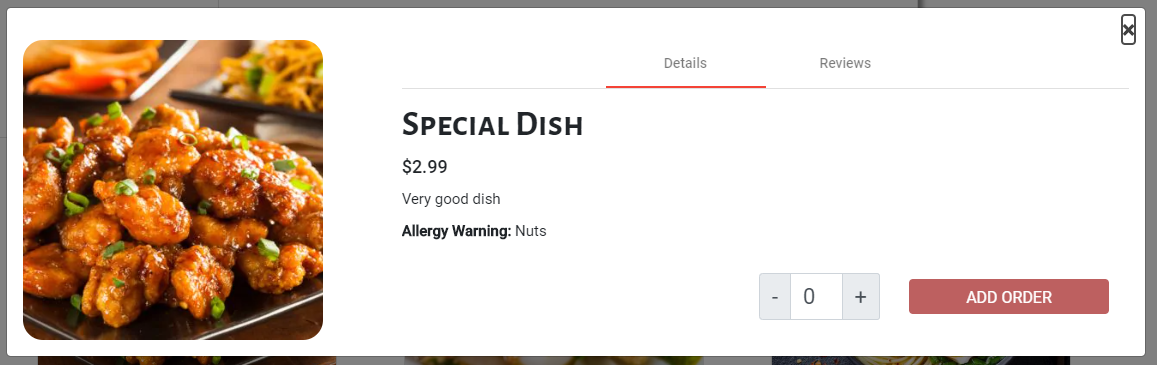
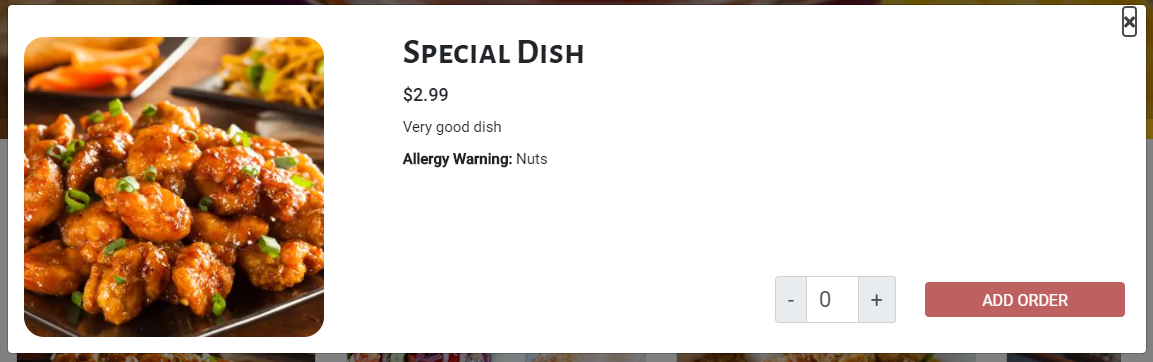
SD-93: Populated menu items to restaurants and updated docs

diff --git a/client-server/src/app/components/dish-card/dish-card.component.html b/client-server/src/app/components/dish-card/dish-card.component.html
@@ -1,19 +1,10 @@
 <div class="card cardBox">
-  <img src="{{ dish.image }}" class="card-img-top" alt="{{ dish.name }}" />
+  <img src="{{ dish.picture }}" class="card-img-top" alt="{{ dish.name }}" />
   <div class="card-body">
     <div class="row">
       <div class="col">
-        <h5 class="card-title">{{ dish.name }}</h5>
-        <p class="card-text">
-          <star-rating
-            value="{{ dish.rating }}"
-            totalstars="{{ totalStars }}"
-            checkedcolor="gold"
-            uncheckedcolor="grey"
-            size="24px"
-            readonly="true"
-          ></star-rating>
-        </p>
+        <h5 class="card-title">{{ dish.name | titlecase }}</h5>
+        <p class="card-text">${{ dish.price }}</p>
       </div>
       <button class="btn" (click)="openDish(content)">
         View dish
@@ -35,32 +26,20 @@
   <div class="modal-body">
     <div class="row" id="row-modal">
       <div class="col-md-4" id="col-img">
-        <img class="dish-img" src="{{ dish.image }}" />
+        <img class="dish-img" src="{{ dish.picture }}" />
       </div>
       <div class="col-md-8" id="col-body">
-        <mat-tab-group mat-align-tabs="center">
-          <mat-tab label="Details">
-            <br />
-            <div class="info-body">
-              <h2>{{ dish.name }}</h2>
-              <h5>${{ dish.price }}</h5>
-              <p>{{ dish.description }}</p>
-              <p><b>Allergy Warning: </b>{{ dish.allergy }}</p>
+        <div class="info-body">
+          <h2>{{ dish.name | titlecase }}</h2>
+          <h5>${{ dish.price }}</h5>
+          <p>{{ dish.description }}</p>
+          <p><b>Allergy Warning: </b>{{ dish.allergy }}</p>
 
-              <div class="picker-wrapper">
-                <ng-number-picker [(value)]="value"></ng-number-picker>
-              </div>
-              <button class="btn order-btn">ADD ORDER</button>
-            </div>
-          </mat-tab>
-
-          <mat-tab label="Reviews">
-            <app-view-review-card
-              *ngFor="let review of reviews"
-              [review]="review"
-            ></app-view-review-card>
-          </mat-tab>
-        </mat-tab-group>
+          <div class="picker-wrapper">
+            <ng-number-picker [(value)]="value"></ng-number-picker>
+          </div>
+          <button class="btn order-btn">ADD ORDER</button>
+        </div>
       </div>
     </div>
   </div>

diff --git a/client-server/src/app/service/restaurants.service.ts b/client-server/src/app/service/restaurants.service.ts
@@ -7,7 +7,7 @@ import { environment } from '../../environments/environment';
   providedIn: 'root',
 })
 export class RestaurantsService {
-  private static readonly RO_ENDPOINT = `${environment.endpoint_url}/RO`;
+  private static readonly RO_ENDPOINT = `${environment.endpoint_url}`;
 
   constructor(private http: HttpClient) {}
 
@@ -18,7 +18,7 @@ export class RestaurantsService {
   Return list of all restaurants in the database
   */
   listRestaurants(): Observable<any> {
-    const endpoint = `${RestaurantsService.RO_ENDPOINT}/getAll/`;
+    const endpoint = `${RestaurantsService.RO_ENDPOINT}/RO/getAll/`;
     return this.http.get(endpoint);
   }
 
@@ -29,9 +29,23 @@ export class RestaurantsService {
   Returns the details of the restaurant using its id.
   */
   getRestaurant(id): Observable<any> {
-    const endpoint = `${RestaurantsService.RO_ENDPOINT}/get/`;
+    const endpoint = `${RestaurantsService.RO_ENDPOINT}/RO/get/`;
     var params = {
       _id: id,
+    };
+    return this.http.get(endpoint, { params: params });
+  }
+
+  /*
+  @Input: Restaurand id
+  @Output: Corresponding restaurant object
+
+  Returns the details of the restaurant using its id.
+  */
+  getRestaurantFood(id): Observable<any> {
+    const endpoint = `${RestaurantsService.RO_ENDPOINT}/tag/get_food_by_restaurant/`;
+    var params = {
+      restaurant_id: id,
     };
     return this.http.get(endpoint, { params: params });
   }

diff --git a/client-server/src/app/pages/restaurant-page/restaurant-page.component.html b/client-server/src/app/pages/restaurant-page/restaurant-page.component.html
@@ -85,10 +85,13 @@
   </div>
 
   <mat-tab-group mat-align-tabs="center">
-    <mat-tab *ngFor="let category of menu.category" label="{{ category.name }}">
+    <mat-tab label="Menu">
+      <ngb-alert *ngIf="restaurantMenu.length == 0" [dismissible]="false">
+        Menu currently empty! Please check again at a later time.
+      </ngb-alert>
       <div class="menu-tab card-columns">
         <app-dish-card
-          *ngFor="let dish of category.menu"
+          *ngFor="let dish of restaurantMenu"
           [dish]="dish"
         ></app-dish-card>
       </div>
@@ -97,6 +100,9 @@
     <mat-tab disabled></mat-tab>
     <mat-tab label="Media"> Media </mat-tab>
     <mat-tab label="Reviews">
+      <ngb-alert *ngIf="reviews.length == 0" [dismissible]="false">
+        No reviews at the moment. Be the first!
+      </ngb-alert>
       <app-view-review-card
         *ngFor="let review of reviews"
         [review]="review"

diff --git a/client-server/src/app/pages/restaurant-page/restaurant-page.component.ts b/client-server/src/app/pages/restaurant-page/restaurant-page.component.ts
@@ -16,9 +16,10 @@ export class RestaurantPageComponent implements OnInit {
   @Input() userId: any; // pass the user id everywhere
 
   restaurantId: string;
-  dishes: any[];
-  reviews: any[];
+  dishes: any[] = [];
+  reviews: any[] = [];
   restaurantDetails: any;
+  restaurantMenu: any[] = [];
 
   menu = {
     category: [
@@ -51,10 +52,19 @@ export class RestaurantPageComponent implements OnInit {
 
   ngOnInit(): void {
     this.restaurantId = this.route.snapshot.queryParams.restaurantId;
+
+    // generate restaurant page
     this.restaurantsService
       .getRestaurant(this.restaurantId)
       .subscribe((data) => {
         this.restaurantDetails = data;
+      });
+
+    // generate restaurant menu
+    this.restaurantsService
+      .getRestaurantFood(this.restaurantId)
+      .subscribe((data) => {
+        this.restaurantMenu = data.Dishes;
       });
   }
 

diff --git a/client-server/src/app/components/dish-card/dish-card.component.ts b/client-server/src/app/components/dish-card/dish-card.component.ts
@@ -1,6 +1,5 @@
 import { Component, OnInit, Input, HostListener } from '@angular/core';
 import { NgbModal } from '@ng-bootstrap/ng-bootstrap';
-import reviews from '../../../assets/data/reviews.json';
 
 @Component({
   selector: 'app-dish-card',
@@ -9,16 +8,11 @@ import reviews from '../../../assets/data/reviews.json';
   styleUrls: ['./dish-card.component.scss'],
 })
 export class DishCardComponent implements OnInit {
-  // evenutally call reviews of the dishes
-  reviews: any[];
   value: number = 0;
-  totalStars: number = 5;
 
   @Input() dish: any;
 
-  constructor(private modalService: NgbModal) {
-    this.reviews = reviews;
-  }
+  constructor(private modalService: NgbModal) {}
 
   @HostListener('window:resize', ['$event'])
   onResize() {

diff --git a/client-server/src/app/pages/restaurant-page/restaurant-page.component.scss b/client-server/src/app/pages/restaurant-page/restaurant-page.component.scss
@@ -12,6 +12,10 @@ mat-tab-group {
   }
 }
 
+ngb-alert {
+  margin: 30px 10%;
+}
+
 .inline {
   display: inline-block;
 }

diff --git a/sd-site/docs/components/dish-card.md b/sd-site/docs/components/dish-card.md
@@ -13,7 +13,6 @@ Files exist under `src\app\components\dish-card`
 
 ![Dish Card](../../static/img/examples/dish-card.PNG "Dish Card")
 ![Dish Card Modal](../../static/img/examples/dish-card-modal.PNG "Dish Card Modal")
-![Dish Card Reviews](../../static/img/examples/dish-card-reviews.PNG "Dish Card Reviews")
 
 ## Tag Fields
 
@@ -31,13 +30,13 @@ Currently, the dish object should contain:
 
 ```json
 {
-  "type": "dish",
+  "_id": "{{ id from MongoDB }}",
   "name": "{{ dish name }}",
-  "rating": "{{ rating number out of 5 (whole numbers) }}",
-  "price": "{{ the price of the dish }}",
-  "image": "{{ path to the image file }}",
   "description": "{{ description of dish }}",
-  "allergy": "{{ list of allergies }}"
+  "picture": "{{ path to the image file }}",
+  "price": "{{ the price of the dish }}",
+  "tags": "{{ TDB }}",
+  "specials": "{{ TBD }}"
 }
 ```
 
@@ -45,13 +44,13 @@ Example:
 
 ```json
 {
-  "type": "dish",
-  "name": "Special Dish",
-  "rating": "4",
-  "price": "2.99",
-  "image": "assets/images/cuisines/chinese.png",
-  "description": "Very good dish",
-  "allergy": "Nuts"
+  "_id": "5f07ea00b5dbd5fe3e893bd3",
+  "name": "Juicy Lamb steak",
+  "description": "medium rare lamb steak cooked to perfection",
+  "picture": "https://nationalpostcom.files.wordpress.com/2018/12/GettyImages-835995304.jpg",
+  "price": "34.99",
+  "tags": [],
+  "specials": ""
 }
 ```
 
